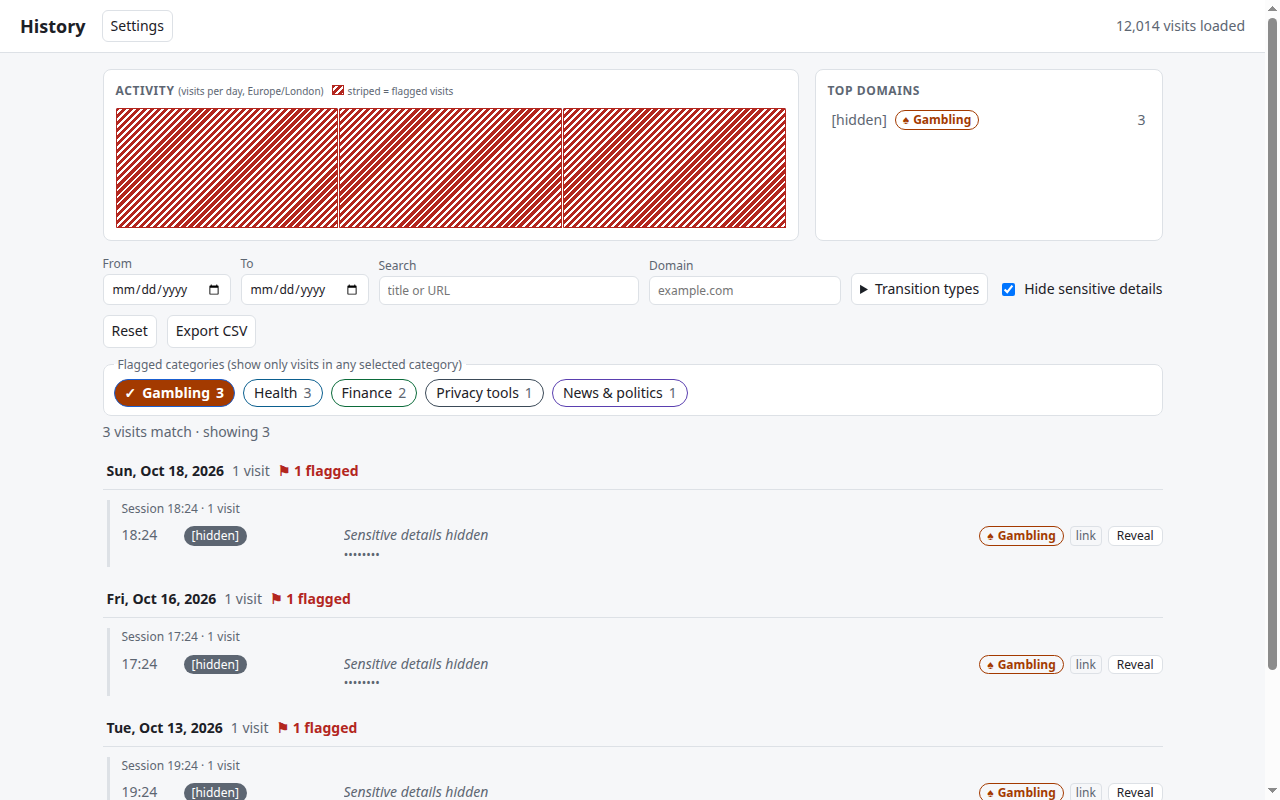
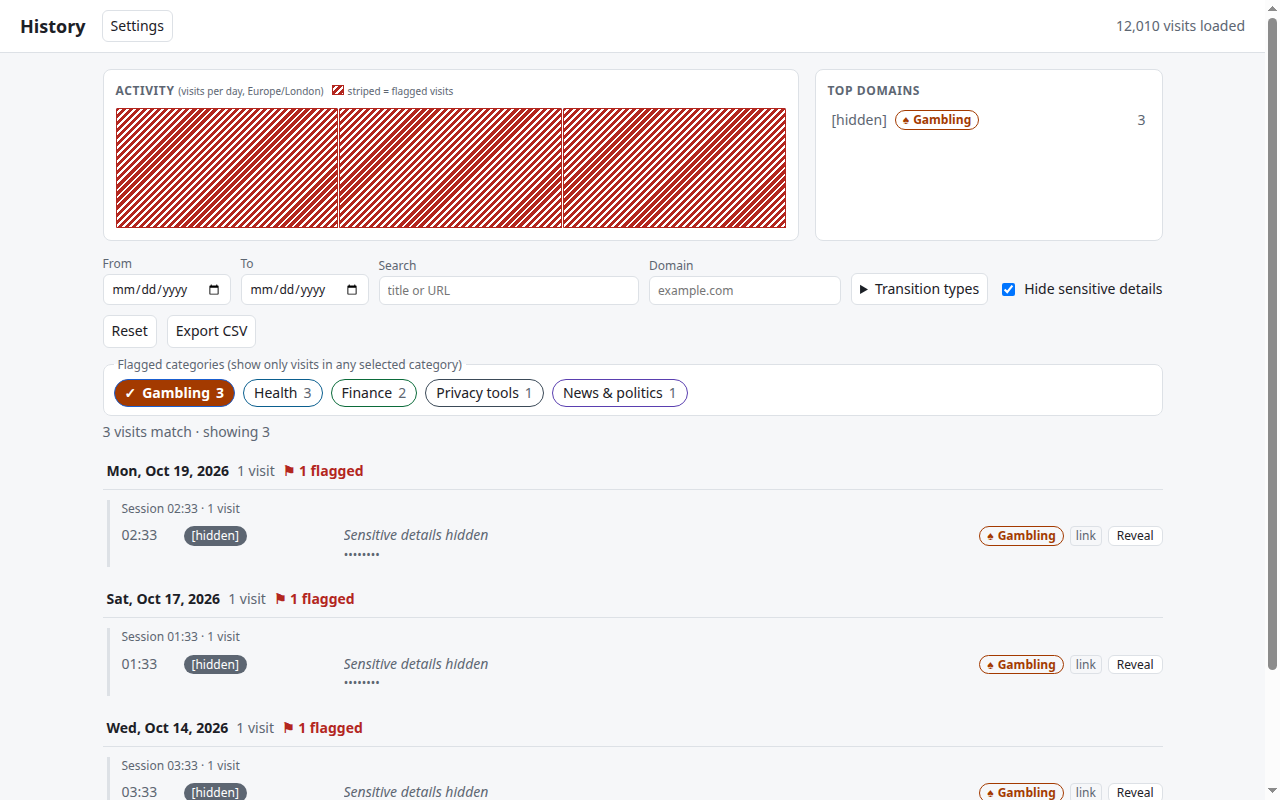
fix(extension): pluralise counts, clearer empty-history text, clean store screenshots, unzip-into-empty-folder docs
Cancel loading button restored in the fixture page; zip-check verifies it in the shipped page.

diff --git a/extension/ui/app.js b/extension/ui/app.js
@@ -2,7 +2,7 @@
 // they only enter the DOM via textContent / setAttribute, never innerHTML.
 import { loadVisits, TRANSITIONS } from '../src/history/index.js';
 import { CATEGORIES, createClassifier, parseUserRules, loadBundledRules } from './classify-import.js';
-import { MASK, isFlagged, isMasked, annotate, applyFilters, categoryCounts, chartBins, domainStats, layout, toCsv } from './model.js';
+import { MASK, plural, EMPTY_HISTORY, EMPTY_FILTERED, isFlagged, isMasked, annotate, applyFilters, categoryCounts, chartBins, domainStats, layout, toCsv } from './model.js';
 
 const PAGE = 200;
 const HIDE_KEY = 'chrome-history.hideSensitive';
@@ -77,7 +77,7 @@ function renderChart(visits) {
     const e = el('button', 'bar');
     e.type = 'button'; e.dataset.key = b.key;
     e.tabIndex = i === 0 ? 0 : -1;
-    const label = `${b.key}: ${num(b.visits)} visits` + (b.flagged ? `, ${num(b.flagged)} flagged` : '');
+    const label = `${b.key}: ${plural(b.visits, 'visit')}` + (b.flagged ? `, ${num(b.flagged)} flagged` : '');
     e.title = label; e.setAttribute('aria-label', label);
     const bar = el('i'); bar.style.height = Math.max(2, (b.visits / max) * 100) + '%';
     e.appendChild(bar);
@@ -122,7 +122,7 @@ function renderChips(visits) {
     const b = el('button', 'chip cat-' + c.id);
     b.type = 'button'; b.dataset.cat = c.id;
     b.setAttribute('aria-pressed', st.cats.has(c.id) ? 'true' : 'false');
-    b.setAttribute('aria-label', `${c.label}, ${num(n)} visits`);
+    b.setAttribute('aria-label', `${c.label}, ${plural(n, 'visit')}`);
     b.append(el('span', '', c.label), el('span', 'n', num(n)));
     b.addEventListener('click', () => { if (st.cats.has(c.id)) st.cats.delete(c.id); else st.cats.add(c.id); refresh(); });
     box.appendChild(b);
@@ -181,7 +181,7 @@ function renderMore(count) {
       c.dayEl = el('section', 'day');
       const d = days[day];
       const h = el('h3', '', fmtDay(d.ms));
-      const meta = el('span', '', `${num(d.visits)} visit${d.visits === 1 ? '' : 's'}`);
+      const meta = el('span', '', plural(d.visits, 'visit'));
       h.appendChild(meta);
       if (d.flagged) {
         const f = el('span', 'flagn', `⚑ ${num(d.flagged)} flagged`);
@@ -196,7 +196,7 @@ function renderMore(count) {
       c.sessEl = el('div', 'session');
       const s = sessions[sess];
       const span = s.first === s.last ? localTime(s.first) : `${localTime(s.last)}–${localTime(s.first)}`;
-      c.sessEl.appendChild(el('div', 'session-head', `Session ${span} · ${num(s.visits)} visit${s.visits === 1 ? '' : 's'}`));
+      c.sessEl.appendChild(el('div', 'session-head', `Session ${span} · ${plural(s.visits, 'visit')}`));
       c.dayEl.appendChild(c.sessEl);
     }
     const row = el('div', 'visit');
@@ -211,7 +211,7 @@ function renderMore(count) {
 
 function updateSummaryLine() {
   const total = st.filtered.length;
-  $('summary-line').textContent = total ? `${num(total)} visits match · showing ${num(Math.min(st.rendered, total))}` : '';
+  $('summary-line').textContent = total ? `${plural(total, 'visit')} ${total === 1 ? 'matches' : 'match'} · showing ${num(Math.min(st.rendered, total))}` : '';
 }
 
 function checkSentinel() {
@@ -240,7 +240,9 @@ function refresh({ keepCount = false } = {}) {
   st.cur = { day: -1, sess: -1, dayEl: null, sessEl: null };
   $('timeline').replaceChildren();
   renderMore(Math.max(PAGE, prev));
-  $('empty').hidden = st.filtered.length > 0 || st.loading;
+  const empty = $('empty');
+  empty.hidden = st.filtered.length > 0 || st.loading;
+  empty.textContent = st.all.length ? EMPTY_FILTERED : EMPTY_HISTORY;
   checkSentinel();
 }
 
@@ -264,11 +266,11 @@ async function loadAll(history) {
       signal: ac.signal,
       startTime: 0, endTime: Date.now() + 1, // endTime is exclusive
       onBatch: (batch) => { annotate(batch, st.classifier); st.all.push(...batch); scheduleRefresh(); },
-      onProgress: ({ urls, visits, done }) => { if (!done) setStatus(`Loading… ${num(visits)} visits from ${num(urls)} pages`); },
+      onProgress: ({ urls, visits, done }) => { if (!done) setStatus(`Loading… ${plural(visits, 'visit')} from ${plural(urls, 'page')}`); },
     });
-    setStatus(`${num(st.all.length)} visits loaded`);
+    setStatus(`${plural(st.all.length, 'visit')} loaded`);
   } catch (e) {
-    if (e && e.name === 'AbortError') setStatus(`Loading cancelled: ${num(st.all.length)} visits loaded (partial)`);
+    if (e && e.name === 'AbortError') setStatus(`Loading cancelled: ${plural(st.all.length, 'visit')} loaded (partial)`);
     else setStatus('Error loading history: ' + (e && e.message ? e.message : 'unknown error'));
   } finally {
     st.loading = false;

diff --git a/extension/test/ui-model.test.js b/extension/test/ui-model.test.js
@@ -1,6 +1,6 @@
 import test from 'node:test';
 import assert from 'node:assert/strict';
-import { applyFilters, toCsv, csvCell, layout, chartBins, domainStats, annotate, isMasked, MASK } from '../ui/model.js';
+import { applyFilters, toCsv, csvCell, layout, chartBins, domainStats, annotate, isMasked, MASK, plural, EMPTY_HISTORY, EMPTY_FILTERED } from '../ui/model.js';
 import { createClassifier, parseUserRules, loadBundledRules } from '../ui/test-support/stub-classifier.js';
 
 const T0 = new Date(2025, 5, 10, 12, 0).getTime();
@@ -86,4 +86,16 @@ test('date range is half-open at the next local midnight', async () => {
   const edge = [{ ...vs[0], visitId: 'e1', time: mid - 1 }, { ...vs[0], visitId: 'e2', time: mid }];
   assert.deepEqual(applyFilters(edge, { start: '2025-06-10', end: '2025-06-10' }, false).map((v) => v.visitId), ['e1']);
   assert.equal(applyFilters(edge, { start: day2, end: day2 }, false).map((v) => v.visitId)[0], 'e2');
+});
+
+test('plural pluralises', () => {
+  assert.equal(plural(0, 'visit'), '0 visits');
+  assert.equal(plural(1, 'visit'), '1 visit');
+  assert.equal(plural(1234, 'visit'), (1234).toLocaleString() + ' visits');
+  assert.equal(plural(1, 'page'), '1 page');
+});
+
+test('empty-history message differs from filtered-empty and mentions no sensitive terms', () => {
+  assert.notEqual(EMPTY_HISTORY, EMPTY_FILTERED);
+  assert.match(EMPTY_HISTORY, /no browsing history/);
 });

diff --git a/extension/ui/test-support/fixture.js b/extension/ui/test-support/fixture.js
@@ -3,15 +3,17 @@ import { createMockHistory } from './mock-history.js';
 import { makeFixtureEntries } from '../../scripts/make-fixture.js';
 
 const DAY = 864e5;
-export function fixtureHistory({ visits = 12000 } = {}) {
+export function fixtureHistory({ visits = 12000, adversarial = true } = {}) {
   const end = Date.now() - 3600e3;
   const entries = makeFixtureEntries({ visits, endTime: end, days: 90 });
   const t = (daysAgo, h) => end - daysAgo * DAY - h * 3600e3;
   const v = (when, transition = 'link') => ({ visitTime: when, transition });
-  entries.push(
+  if (adversarial) entries.push(
     { url: 'https://site1.example.test/<img src=x onerror=alert(1)>', title: '<img src=x onerror="document.title=\'pwned\'">XSS title', visits: [v(t(0, 1)), v(t(0, 1.1))] },
     { url: 'javascript:alert(1)', title: '=HYPERLINK("http://evil.example","click")', visits: [v(t(0, 1.2))] },
     { url: 'https://site2.example.test/formula', title: '@SUM(1+1)', visits: [v(t(1, 2))] },
+  );
+  entries.push(
     { url: 'https://bet365.com/slots', title: 'Secret casino slots', visits: [v(t(0, 2)), v(t(2, 3)), v(t(5, 1))] },
     { url: 'https://www.aetna.com/appointments', title: 'Clinic appointments', visits: [v(t(0, 2.2)), v(t(3, 4))] },
     { url: 'https://site3.example.test/symptom-checker', title: 'Symptom checker', visits: [v(t(1, 5))] },

diff --git a/extension/ui/timeline.css b/extension/ui/timeline.css
@@ -107,7 +107,8 @@ button.vtitle.masked-btn{border:0;background:none;padding:0;text-align:left}
 .settings[hidden]{display:none}
 .settings h2{margin-bottom:6px}
 .settings p{margin:4px 0;color:var(--muted)}
-.settings textarea{width:100%;min-height:140px;font:12px/1.4 ui-monospace,monospace;color:var(--fg);background:var(--bg);border:1px solid var(--line);border-radius:6px;padding:8px;resize:vertical}
+.settings label{display:block;margin:8px 0 4px}
+.settings textarea{display:block;width:100%;min-height:140px;font:12px/1.4 ui-monospace,monospace;color:var(--fg);background:var(--bg);border:1px solid var(--line);border-radius:6px;padding:8px;resize:vertical}
 .settings pre{background:var(--bg);border:1px solid var(--line);border-radius:6px;padding:8px;overflow:auto;margin:6px 0}
 .settings .row{display:flex;gap:8px;align-items:center;margin-top:8px;flex-wrap:wrap}
 .rules-error{color:var(--flag);font-weight:600;margin:6px 0 0}

diff --git a/extension/ui/model.js b/extension/ui/model.js
@@ -2,6 +2,9 @@
 import { dayKey, filterVisits, DEFAULT_SESSION_GAP_MS } from '../src/history/index.js';
 
 export const MASK = '[hidden]';
+export const plural = (n, one, many = one + 's') => `${n.toLocaleString()} ${n === 1 ? one : many}`;
+export const EMPTY_HISTORY = 'Chrome has no browsing history for this profile (it may be new, or its history was cleared). Visit some pages, then reload this tab.';
+export const EMPTY_FILTERED = 'No visits match these filters.';
 const pad = (n) => String(n).padStart(2, '0');
 
 export function isFlagged(v) { return v.categories.length > 0; }

diff --git a/extension/ui/test-support/fixture-main.js b/extension/ui/test-support/fixture-main.js
@@ -1,4 +1,5 @@
 // Test-only entry: runs the timeline on synthetic history. Not shipped.
 import { start } from '../app.js';
 import { fixtureHistory } from './fixture.js';
-start(fixtureHistory());
+// ?clean=1 omits the adversarial (XSS/formula) rows; used for Store screenshots.
+start(fixtureHistory({ adversarial: !new URLSearchParams(location.search).has('clean') }));

diff --git a/extension/ui/test-support/timeline-fixture.html b/extension/ui/test-support/timeline-fixture.html
@@ -15,6 +15,7 @@
   <h1>History</h1>
   <button type="button" id="settings-btn" aria-expanded="false" aria-controls="settings">Settings</button>
   <progress id="load-progress" aria-label="Loading history" hidden></progress>
+  <button type="button" id="load-cancel" hidden>Cancel loading</button>
   <span id="status" role="status" aria-live="polite"></span>
 </header>
 

diff --git a/README.md b/README.md
@@ -59,7 +59,7 @@ Not tested on a Chromebook; this is based on how ChromeOS's Linux support is doc
 
 The `extension/` folder is a Manifest V3 Chrome extension that shows the same kind of audit timeline (days and sessions, activity chart, top sites, filters, sensitive-category flags with a hide toggle, CSV export) for the Chrome profile it is installed in. It reads history with Chrome's `history` permission, makes no network requests (strict CSP, no host permissions) and stores only your optional custom rules in `chrome.storage.local`. Privacy policy: [`extension/store/PRIVACY.md`](extension/store/PRIVACY.md). It has not been published to the Chrome Web Store yet.
 
-**Install unpacked:** run `make extension-zip` (or take the zip from a release), unzip it (or use the `extension/` folder directly), open `chrome://extensions`, turn on Developer mode, choose **Load unpacked** and select the folder. Click the toolbar button to open the timeline.
+**Install unpacked:** run `make extension-zip` (or take the zip from a release), unzip it into a new, EMPTY folder (the files are at the zip root; or use the `extension/` folder directly), open `chrome://extensions`, turn on Developer mode, choose **Load unpacked** and select the folder. Click the toolbar button to open the timeline.
 
 **ChromeOS:** this is the way to audit ChromeOS's own Chrome, which the Linux app cannot reach. Load it as above in ChromeOS Chrome (Developer mode in `chrome://extensions` is a Chrome setting, not ChromeOS developer mode, and does not weaken device security).
 

diff --git a/extension/README.md b/extension/README.md
@@ -6,7 +6,7 @@ Status: data layer, classifier, timeline UI and packaging. Web Store assets and 
 
 ## Load unpacked
 1. Open `chrome://extensions`, enable Developer mode.
-2. Choose "Load unpacked" and select this `extension/` folder.
+2. Choose "Load unpacked" and select this `extension/` folder. To use the release zip instead, unzip it into a new, EMPTY folder first (its files are at the zip root, so they would otherwise mix with other files), then select that folder.
 3. Click the toolbar button to open the timeline in a tab.
 
 ## Layout
